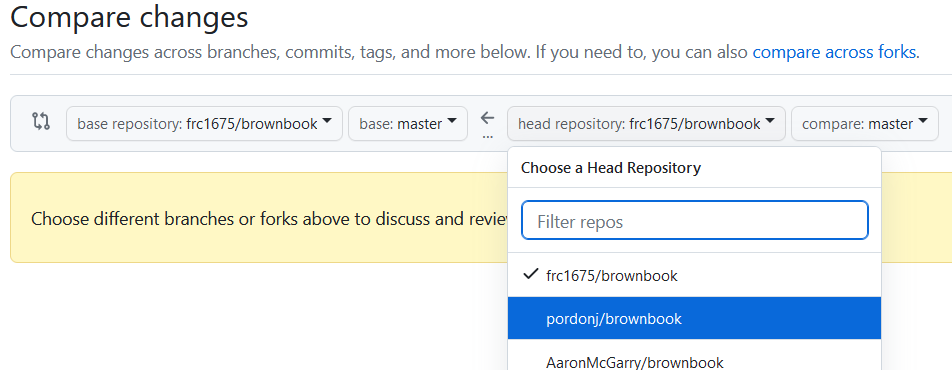
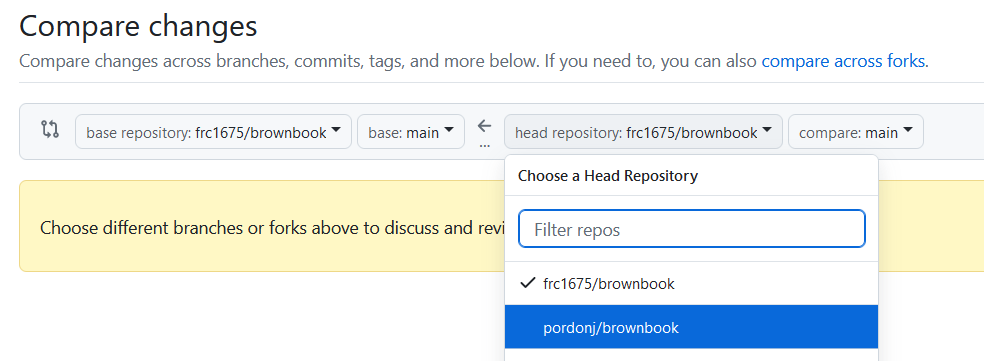
Update github guide to show main insteadd of master, remove unused pics

Changed region(s): [[0.0, 0.2742, 1.0, 1.0], [0.0, 0.0, 0.9748, 0.2133]]

diff --git a/contributing/github-guide.md b/contributing/github-guide.md
@@ -123,13 +123,11 @@ Your changes are in your fork, so you need to click this link to compare across 
 
 Choose your fork to be the head repository.
 
-**JTPTODO AFTER MERGE take new pic that shows main instead of master**
 ![Choose head repository](./images/choose-head-repo.PNG)
 
 After selecting your fork, the page should auto-populate with all the changes between your fork and the main brownbook repository. 
 At this point you can click the green button to create the pull request.
 
-**JTPTODO AFTER MERGE take new pic that shows main instead of master**
 ![Create pull request](./images/create-pr-final.PNG)
 
 It will open a form for your to fill out. 
@@ -151,3 +149,5 @@ If it says your repository is **ahead** it means you have commits that haven't b
 ![Sync](./images/update-branch.PNG)
 
 We use what are called "squash commits" to keep the main repository clean. All it means to you is that you should sync before starting each portion of new work.
+
+If your brownbook repository somehow gets to a state where dsiplays as both some number of commits **ahead and behind**, let Josh know and he can help you resolve it.
